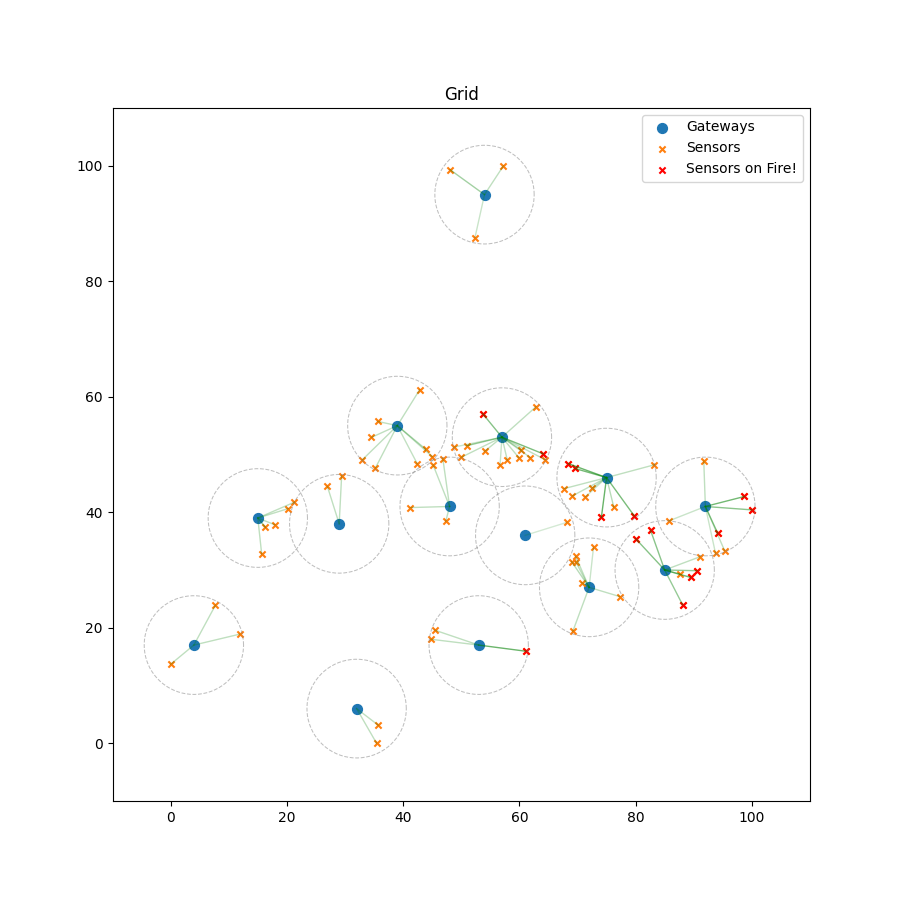
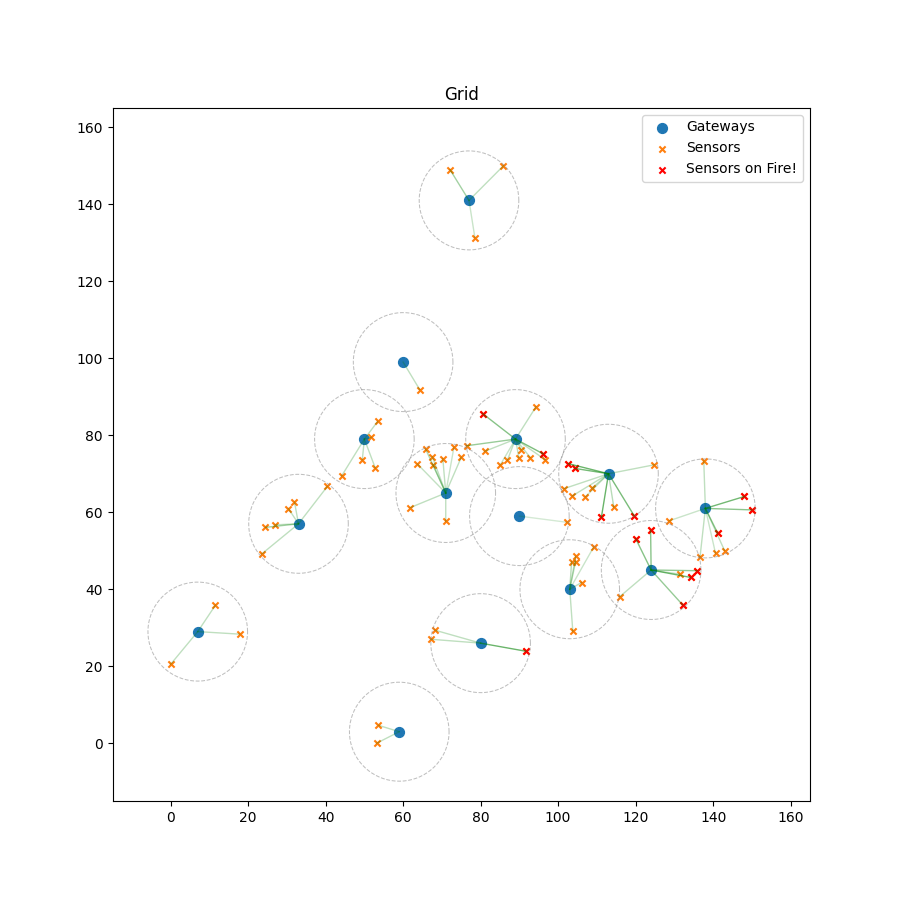
fixes in file names

diff --git a/main.py b/main.py
@@ -1,4 +1,5 @@
 import argparse
+import math
 
 from structs import Grid
 from functions import preprocessing
@@ -7,15 +8,17 @@ from functions import postprocessing
 from functions import visualizer
 
 parser = argparse.ArgumentParser(description='ILP Sensor Clustering - Clustering of sensors using Integer Linear Programming concept')
+parser.add_argument('--grid_size', required=False, default=100, type=int)
 parser.add_argument('--distance_threshold', required=False, default=10.0, type=float)
 parser.add_argument('--score_threshold', required=False, default=0.15, type=float)
 parser.add_argument('--top_n_sensors', required=False, default=15, type=int)
 
 # Parsing Arguments
 args = vars(parser.parse_args())
-GRID_SIZE = 100
+MAX_DISTANCE = 165 # km
+GRID_SIZE = args['grid_size']
 DISTANCE_THRESHOLD_KM = args['distance_threshold']
-DISTANCE_THRESHOLD = args['distance_threshold']/1.17 # km to unit ditance (for 100x100 grid)
+DISTANCE_THRESHOLD = args['distance_threshold']/(MAX_DISTANCE/(GRID_SIZE*math.sqrt(2))) # km to unit distance
 SCORE_THRESHOLD = args['score_threshold']
 TOP_N_SENSORS = args['top_n_sensors']
 
@@ -25,7 +28,7 @@ GRID_PATH = f'docs/output/img/{int(DISTANCE_THRESHOLD_KM)}_km_coverage_grid.png'
 SENSOR_LOG_PATH_UNIT = 'docs/output/log_unit/_sensors_unit.txt'
 GATEWAY_LOG_PATH_UNIT = f'docs/output/log_unit/{int(DISTANCE_THRESHOLD_KM)}_km_coverage_gateways_unit.txt'
 SENSOR_LOG_PATH_COOR = 'docs/output/log_coor/_sensors_coor.txt'
-GATEWAY_LOG_PATH_COOR = f'docs/output/log_coor/{int(DISTANCE_THRESHOLD_KM)}_km_coverage_gateways_unit.txt'
+GATEWAY_LOG_PATH_COOR = f'docs/output/log_coor/{int(DISTANCE_THRESHOLD_KM)}_km_coverage_gateways_coor.txt'
 
 # Main Program
 if __name__=='__main__':
@@ -51,7 +54,7 @@ if __name__=='__main__':
     postprocessing.record_nodes(sensor_set, SENSOR_LOG_PATH_UNIT)
     postprocessing.gateway_with_top_sensors(TOP_N_SENSORS, sensor_set, gateway_set, GATEWAY_LOG_PATH_UNIT)
 
-    # __Denormalizing___
+    # ___Denormalizing___
     postprocessing.denormalize_locations(sensor_set, gateway_set, GRID_SIZE, extreme_longitude, extreme_latitude)
     postprocessing.record_nodes(sensor_set, SENSOR_LOG_PATH_COOR)
     postprocessing.gateway_with_top_sensors(TOP_N_SENSORS, sensor_set, gateway_set, GATEWAY_LOG_PATH_COOR)
